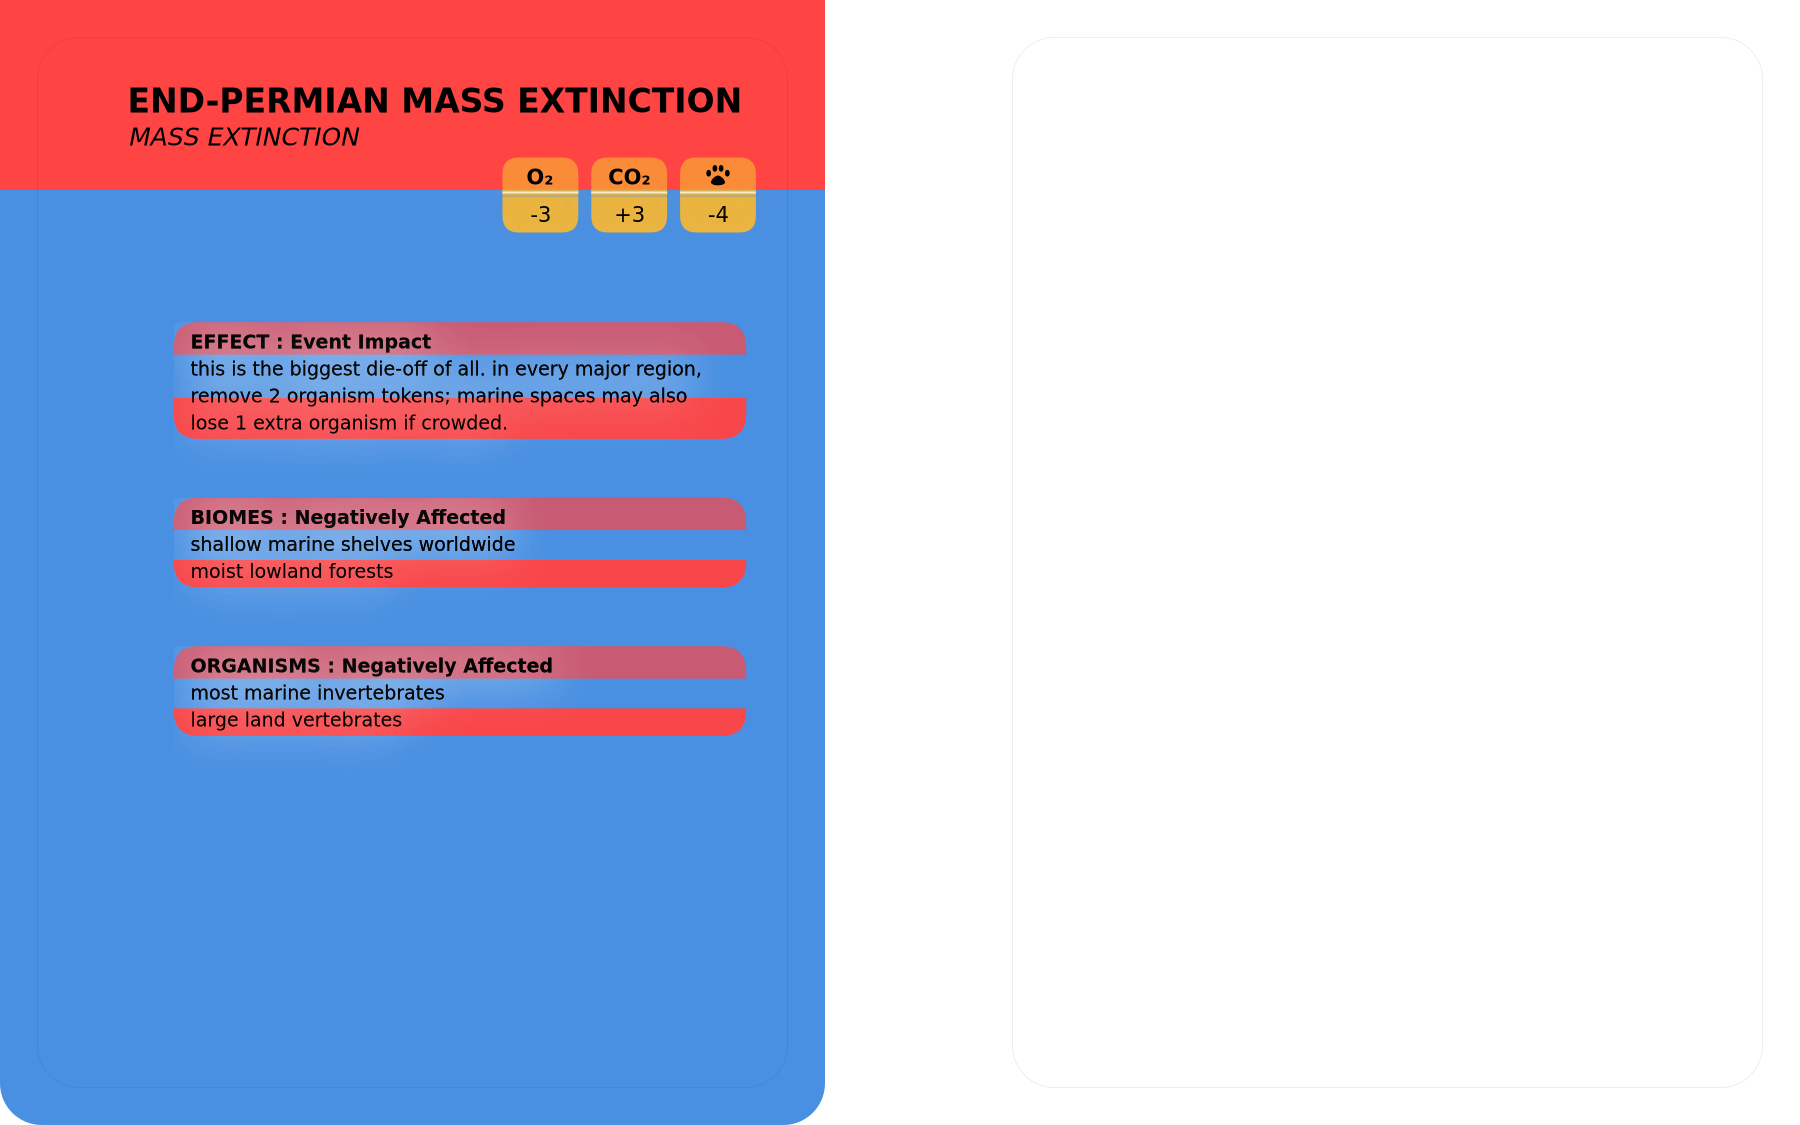
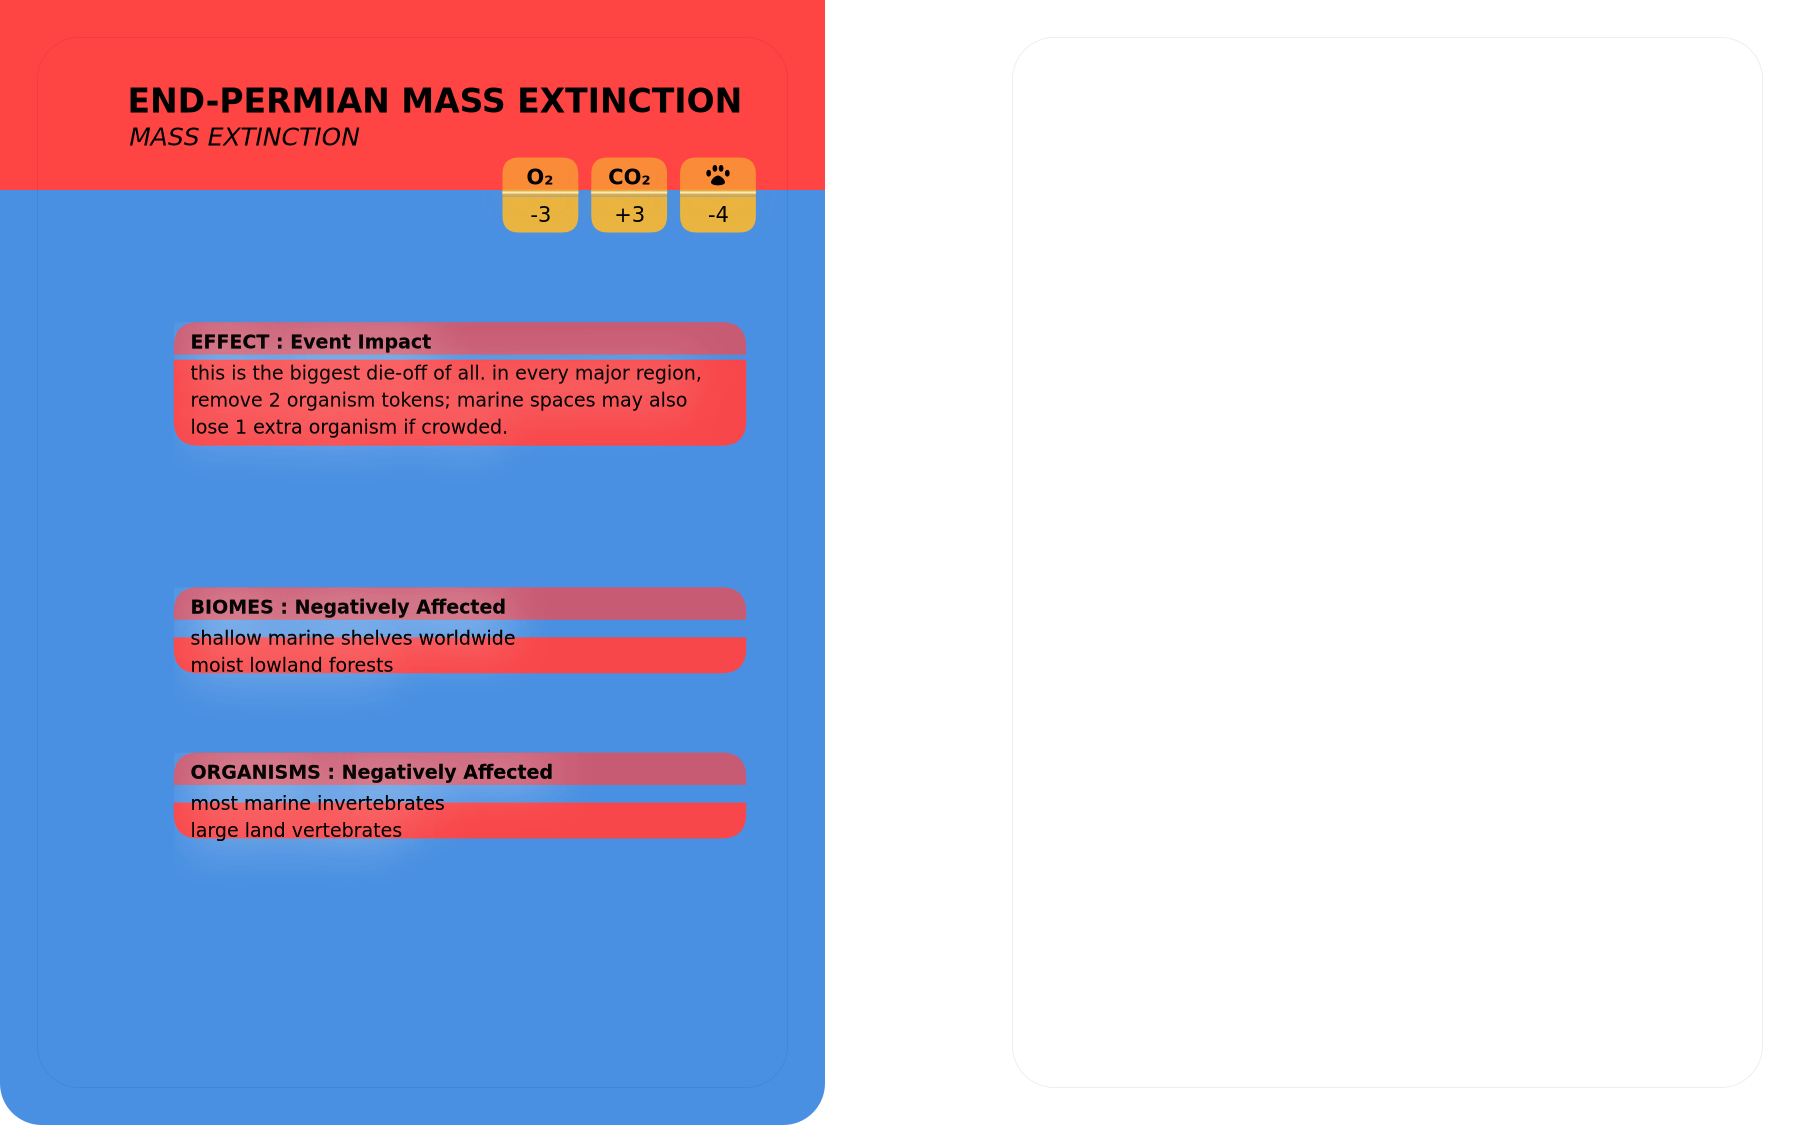
feat: Improve bottom background height calculation and adjust text positioning for Effect, Biomes, and Organisms fields

Changed region(s): [[0.0933, 0.4356, 0.4356, 0.7467], [0.0933, 0.3111, 0.4356, 0.4044]]

diff --git a/game/lib/event-cards/draw-field-row.js b/game/lib/event-cards/draw-field-row.js
@@ -48,8 +48,17 @@ module.exports = function drawFieldRow(ctx, { textX, rowY, scale, color, titleCo
   // Top background: label line plus ~2px below
   const topBoxH = fieldSize + (7 * scale) + 2 * boxPadY;
   
-  // Bottom background: starts 2px above first wrapped line, ends 2px below last line
-  const bottomBoxH = displaySub ? ((wrappedSubLines.length - 1) * (subSize + lineGap) + subSize + (4 * scale)) : 0;
+  // Bottom background: covers all wrapped lines with proper padding
+  let bottomBoxH = 0;
+  if (displaySub) {
+    if (label === 'Effect') {
+      // Effect field: double height to cover all description text
+      bottomBoxH = ((2 * scale) + (wrappedSubLines.length * (subSize + lineGap)) - lineGap + (2 * scale)) * 2;
+    } else {
+      // Other fields: standard height
+      bottomBoxH = ((wrappedSubLines.length * (subSize + lineGap)) - lineGap + (4 * scale) + 2 * boxPadY);
+    }
+  }
   
   const boxW = contentW + 2 * boxPadX;
 
@@ -61,14 +70,23 @@ module.exports = function drawFieldRow(ctx, { textX, rowY, scale, color, titleCo
   // Draw bottom background if there's sub text
   if (bottomBoxH > 0) {
     ctx.save();
-    const bottomY = subY - (2 * scale);
+    // For Effect field, move bottom background up 30px and then down 1px
+    // For Biomes and Organisms fields, move bottom background up 30px, down 1px, then down 15px
+    let bottomY;
+    if (label === 'Effect') {
+      bottomY = rowY - boxPadY + topBoxH - (30 * scale) + (1 * scale);
+    } else if (label === 'Biomes' || label === 'Organisms') {
+      bottomY = rowY - boxPadY + topBoxH - (30 * scale) + (1 * scale) + (15 * scale);
+    } else {
+      bottomY = rowY - boxPadY + topBoxH;
+    }
     drawBottom(ctx, textX - boxPadX, bottomY, boxW, bottomBoxH, boxRadius, color, hexToRgba, 0.8);
     ctx.restore();
   }
 
   // Clip text to within both background boxes so it never overflows
   ctx.beginPath();
-  ctx.rect(textX - boxPadX, rowY - boxPadY, boxW, topBoxH + bottomBoxH + (2 * scale));
+  ctx.rect(textX - boxPadX, rowY - boxPadY, boxW, topBoxH + bottomBoxH);
   ctx.clip();
 
   // Line 1: "Bold Label: " then bold "Main Value"
@@ -81,8 +99,10 @@ module.exports = function drawFieldRow(ctx, { textX, rowY, scale, color, titleCo
   // Lines 2+: wrapped sub description, smaller
   if (wrappedSubLines.length > 0) {
     ctx.font = `${subSize}px "DejaVu Sans", sans-serif`;
+    // For Effect, Biomes, and Organisms fields, move text down 1px
+    const textYOffset = (label === 'Effect' || label === 'Biomes' || label === 'Organisms') ? (1 * scale) : 0;
     wrappedSubLines.forEach((line, i) => {
-      ctx.fillText(line, textX, subY + (i * (subSize + lineGap)));
+      ctx.fillText(line, textX, subY + (i * (subSize + lineGap)) + textYOffset);
     });
   }
 
